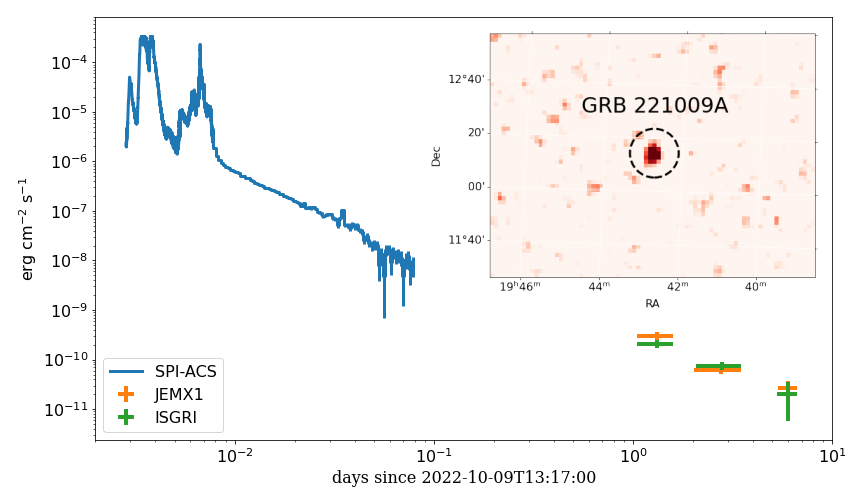
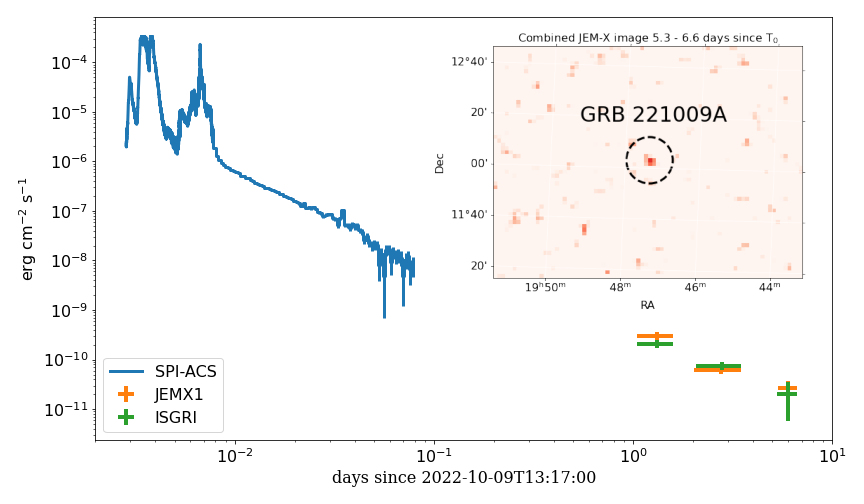
more png

diff --git a/README.md b/README.md
@@ -11,7 +11,7 @@ The intensity of the GRB was so high, that its afterglow was detected in INTEGRA
 
 
 
-The image shows GRB 221009A lightcurve recorded by several INTEGRAL instruments. On the left - the prompt emission phase as measured by SPI-ACS, showing the brightest part of the GRB and an extended tail lasting few hours, detected even by a non-imaging detector. On the right - three revolutions of ISGRI and JEM-X observations of the hard X-ray afterglow. For the last point, only JEM-X yields a significant detection. 
+The image shows GRB 221009A lightcurve recorded by several INTEGRAL instruments. On the left - the prompt emission phase as measured by SPI-ACS, showing the brightest part of the GRB and an extended tail lasting few hours, detected even by a non-imaging detector. On the right - three revolutions of ISGRI and JEM-X observations of the hard X-ray afterglow. For the last point, only JEM-X yields a significant detection. The inset shows combined JEM-X image for the revolution 2559. 
 
 Credit: V.Savchenko, ISDC, UNIGE, EPFL. Special thank you to ESA Ground segment for rapid follow-up.
 
